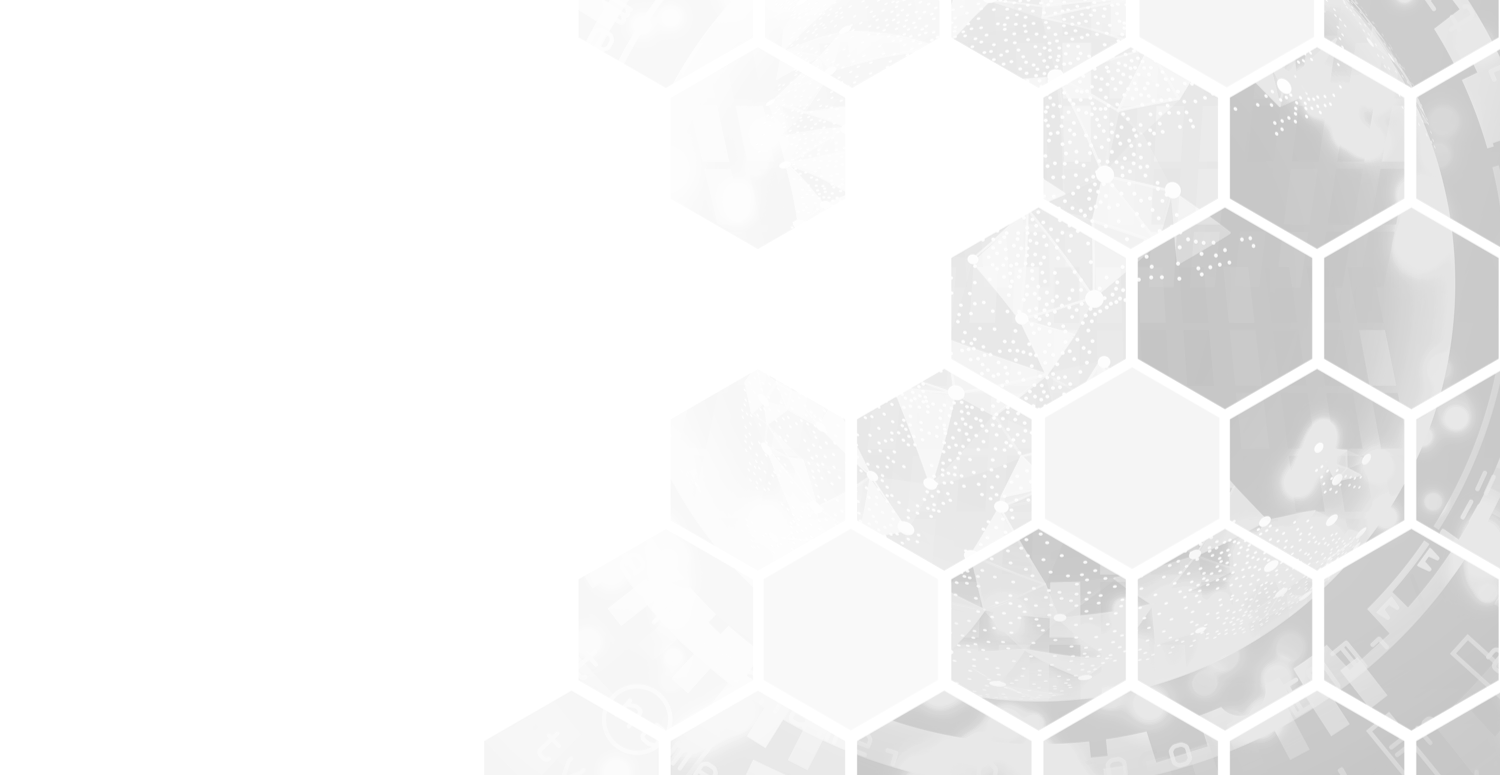
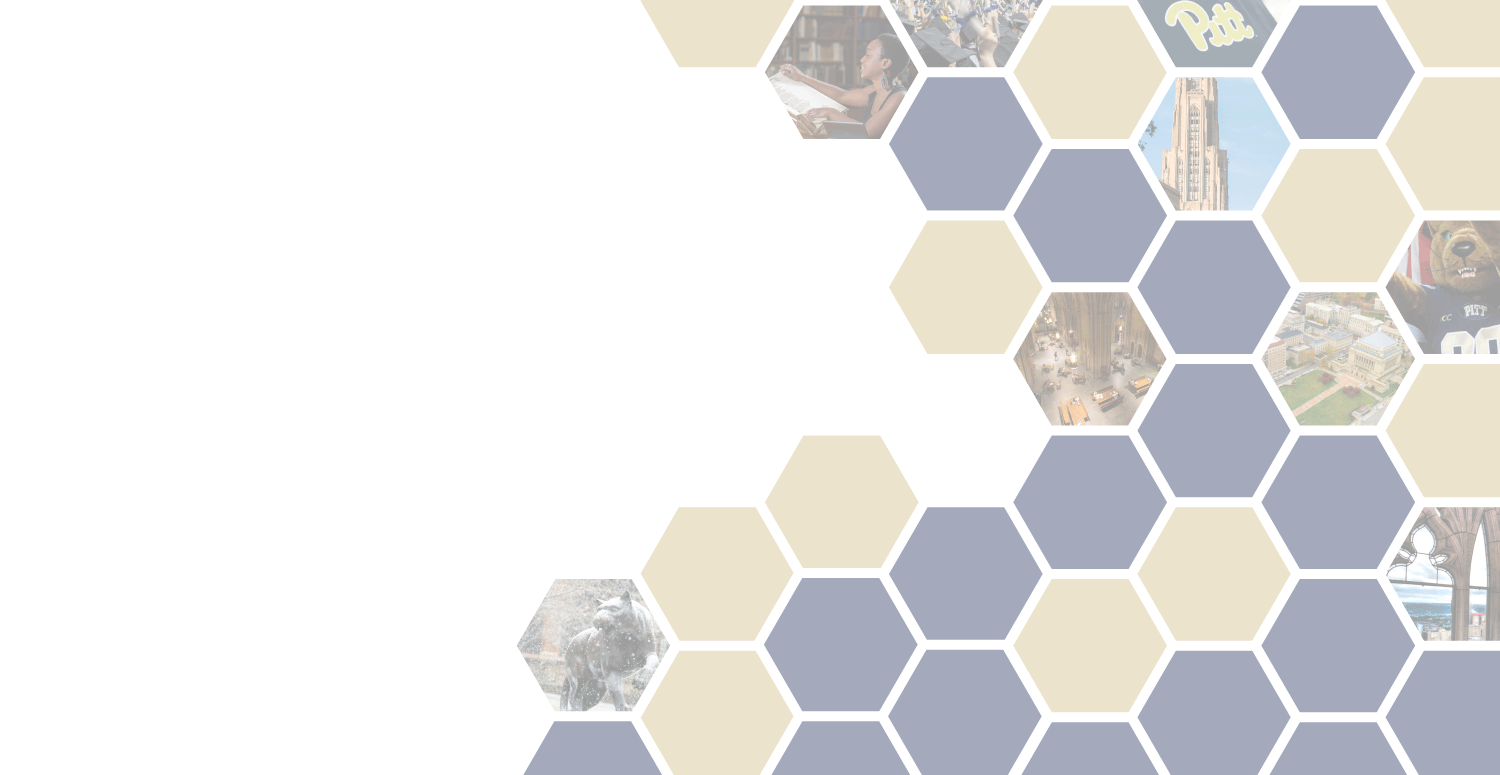
Updated section title image and added updated colors for fragments.

diff --git a/docs/css/theme/source/pitt.scss b/docs/css/theme/source/pitt.scss
@@ -18,6 +18,9 @@ $pittYellow: #cdb87c;
 $pittBlue: #1c2957;
 $mainColor: $pittBlue;
 $headingColor: $pittBlue;
+$red: #D13130;
+$green: #42B251;
+$blue: #5083BD;
 $mainFontSize: 42px;
 $mainFont: 'Roboto',
 Arial,
@@ -38,6 +41,32 @@ $heading3Size: 1.3em;
 $heading4Size: 1.0em;
 // Theme template ------------------------------
 @import "../template/theme";
+// ---------------------------------------------
+// Fragment Overrides --------------------------
+.reveal .slides section .fragment.highlight-red.visible {
+    color: $red;
+}
+
+.reveal .slides section .fragment.highlight-green.visible {
+    color: $green;
+}
+
+.reveal .slides section .fragment.highlight-blue.visible {
+    color: $blue;
+}
+
+.reveal .slides section .fragment.highlight-current-red.current-fragment {
+    color: $red;
+}
+
+.reveal .slides section .fragment.highlight-current-green.current-fragment {
+    color: $green;
+}
+
+.reveal .slides section .fragment.highlight-current-blue.current-fragment {
+    color: $blue;
+}
+
 // ---------------------------------------------
 div.header {
     font-size: .4em;
@@ -77,6 +106,7 @@ section:not(.title-slide) {
     &.element-bkg {
         color: $white;
         background-color: rgba(0, 0, 0, 0.3);
+        padding: 1em;
         h1,
         h2,
         h3,

diff --git a/docs/css/theme/pitt.css b/docs/css/theme/pitt.css
@@ -269,6 +269,24 @@ body {
   .backgrounds {
     background-color: #fff; } }
 
+.reveal .slides section .fragment.highlight-red.visible {
+  color: #D13130; }
+
+.reveal .slides section .fragment.highlight-green.visible {
+  color: #42B251; }
+
+.reveal .slides section .fragment.highlight-blue.visible {
+  color: #5083BD; }
+
+.reveal .slides section .fragment.highlight-current-red.current-fragment {
+  color: #D13130; }
+
+.reveal .slides section .fragment.highlight-current-green.current-fragment {
+  color: #42B251; }
+
+.reveal .slides section .fragment.highlight-current-blue.current-fragment {
+  color: #5083BD; }
+
 div.header {
   font-size: .4em;
   margin-left: 1em;
@@ -298,7 +316,8 @@ section:not(.title-slide) {
     max-width: 85%; }
   section:not(.title-slide).element-bkg {
     color: #fff;
-    background-color: rgba(0, 0, 0, 0.3); }
+    background-color: rgba(0, 0, 0, 0.3);
+    padding: 1em; }
     section:not(.title-slide).element-bkg h1,
     section:not(.title-slide).element-bkg h2,
     section:not(.title-slide).element-bkg h3,

diff --git a/docs/presentations/overview/html-intro.md b/docs/presentations/overview/html-intro.md
@@ -1,5 +1,7 @@
 # HTML
 
+<!-- .slide: class="section-title" data-background="/lib/images/section-bkg.png" -->
+
 -###-
 
 ## HTML
@@ -26,9 +28,9 @@
 ## HTML Tag Basics
 
 * Most tags are pairs, start and end tags:
-    
+
 ```html
-<p> 
+<p>
   This text would be considered a paragraph
 </p>
 <em> This text would be emphasized </em>
@@ -37,7 +39,7 @@
 * Comments have their own start and end tags:
 
 ```html
-<!-- This is an HTML comment --> 
+<!-- This is an HTML comment -->
 <!--
 Multiline comment
 -->
@@ -48,7 +50,7 @@ Multiline comment
 ## HTML Tag Basics
 
 * There are also self closing tags
-    
+
 ```html
 <br /> <!-- The br tag inputs a line break -->
 ```
@@ -58,7 +60,7 @@ Multiline comment
 ## HTML Tag Basics
 
 * Tags also have attributes
-    
+
 ```html
 <a href="http://example.com">click here!</a>
 ```
@@ -92,7 +94,7 @@ span.italics {font-style: italic;}
 ```
 
 * Emphasis tag
-    
+
 ```html
 <em>this will be italicized</em>
 ```
@@ -124,15 +126,19 @@ span.italics {font-style: italic;}
 <span id="unique" class="custom"></span>
 <span id="wrong" class="custom"></span>
 <span id="wrong" class="custom"></span>
-<div class="custom"></div> 
+<div class="custom"></div>
 ```
+-###-
+
+# CSS
+<!-- .slide: class="section-title" data-background="/lib/images/section-bkg.png" -->
 
 -###-
 
 ## Targeting Selectors with CSS
 
 ```html
-<span id="unique" class="custom">Test</span> 
+<span id="unique" class="custom">Test</span>
 ```
 
 ```css

diff --git a/docs/presentations/overview/overview.md b/docs/presentations/overview/overview.md
@@ -36,7 +36,7 @@
 <!-- .slide: class="element-bkg" -->
 <!-- .slide: data-background-image="http://0.media.dorkly.cvcdn.com/92/72/77a6f1576e187ef11ec91b7e179e54e1.gif" -->
 
-* Prefix all email subjects with <span class="fragment highlight-orange">[CS1520]</span>
+* Prefix all email subjects with <span class="fragment highlight-red grow">[CS1520]</span>
 * Address all emails to both the instructor and the TA
     * Assume that if it is not documented (in chat or email), it did not happen.
 
